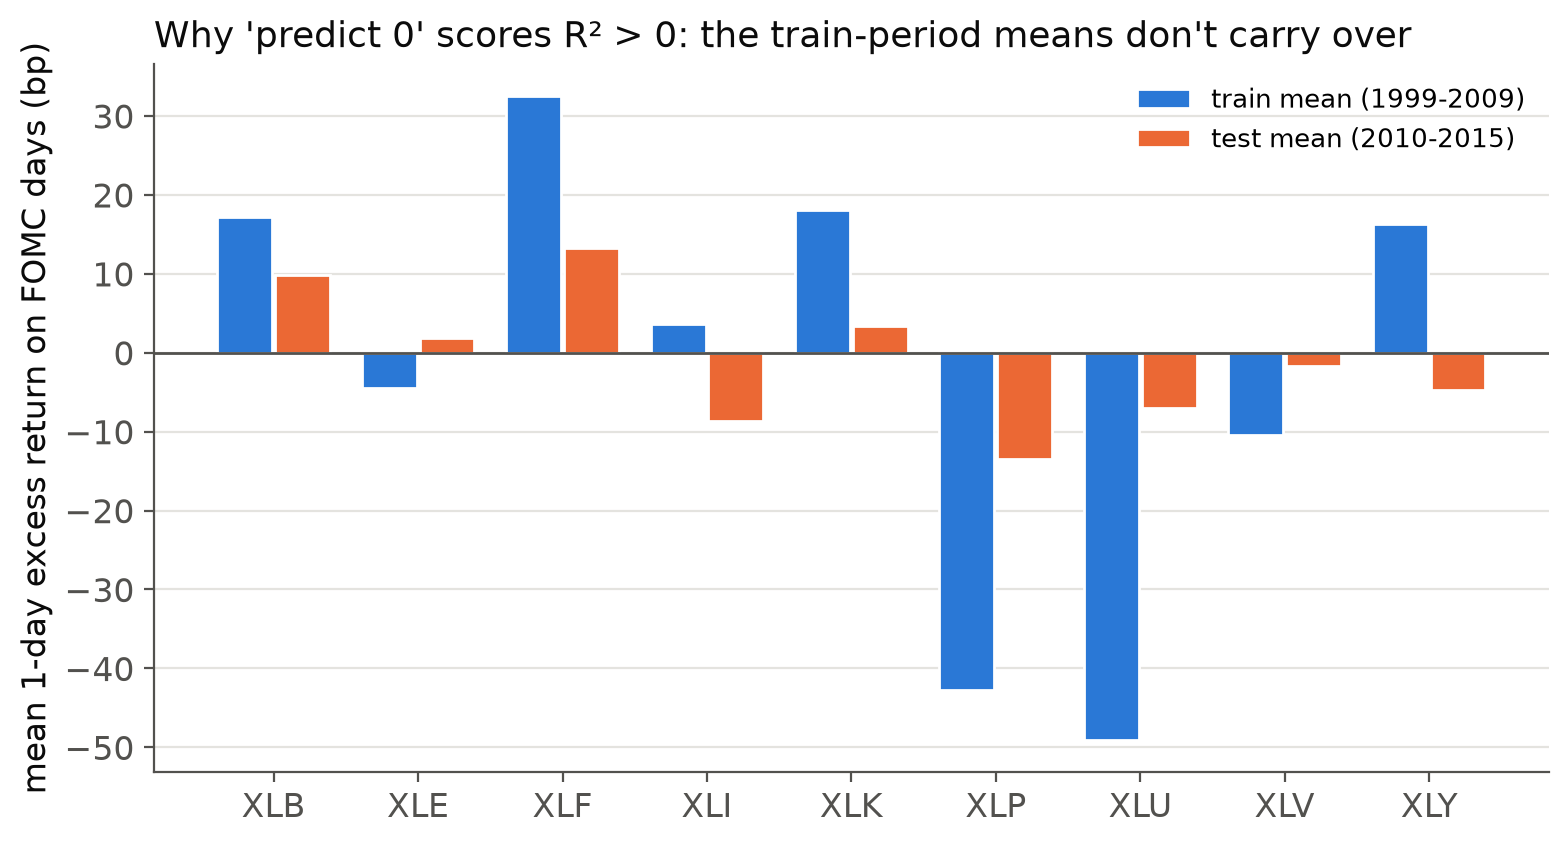
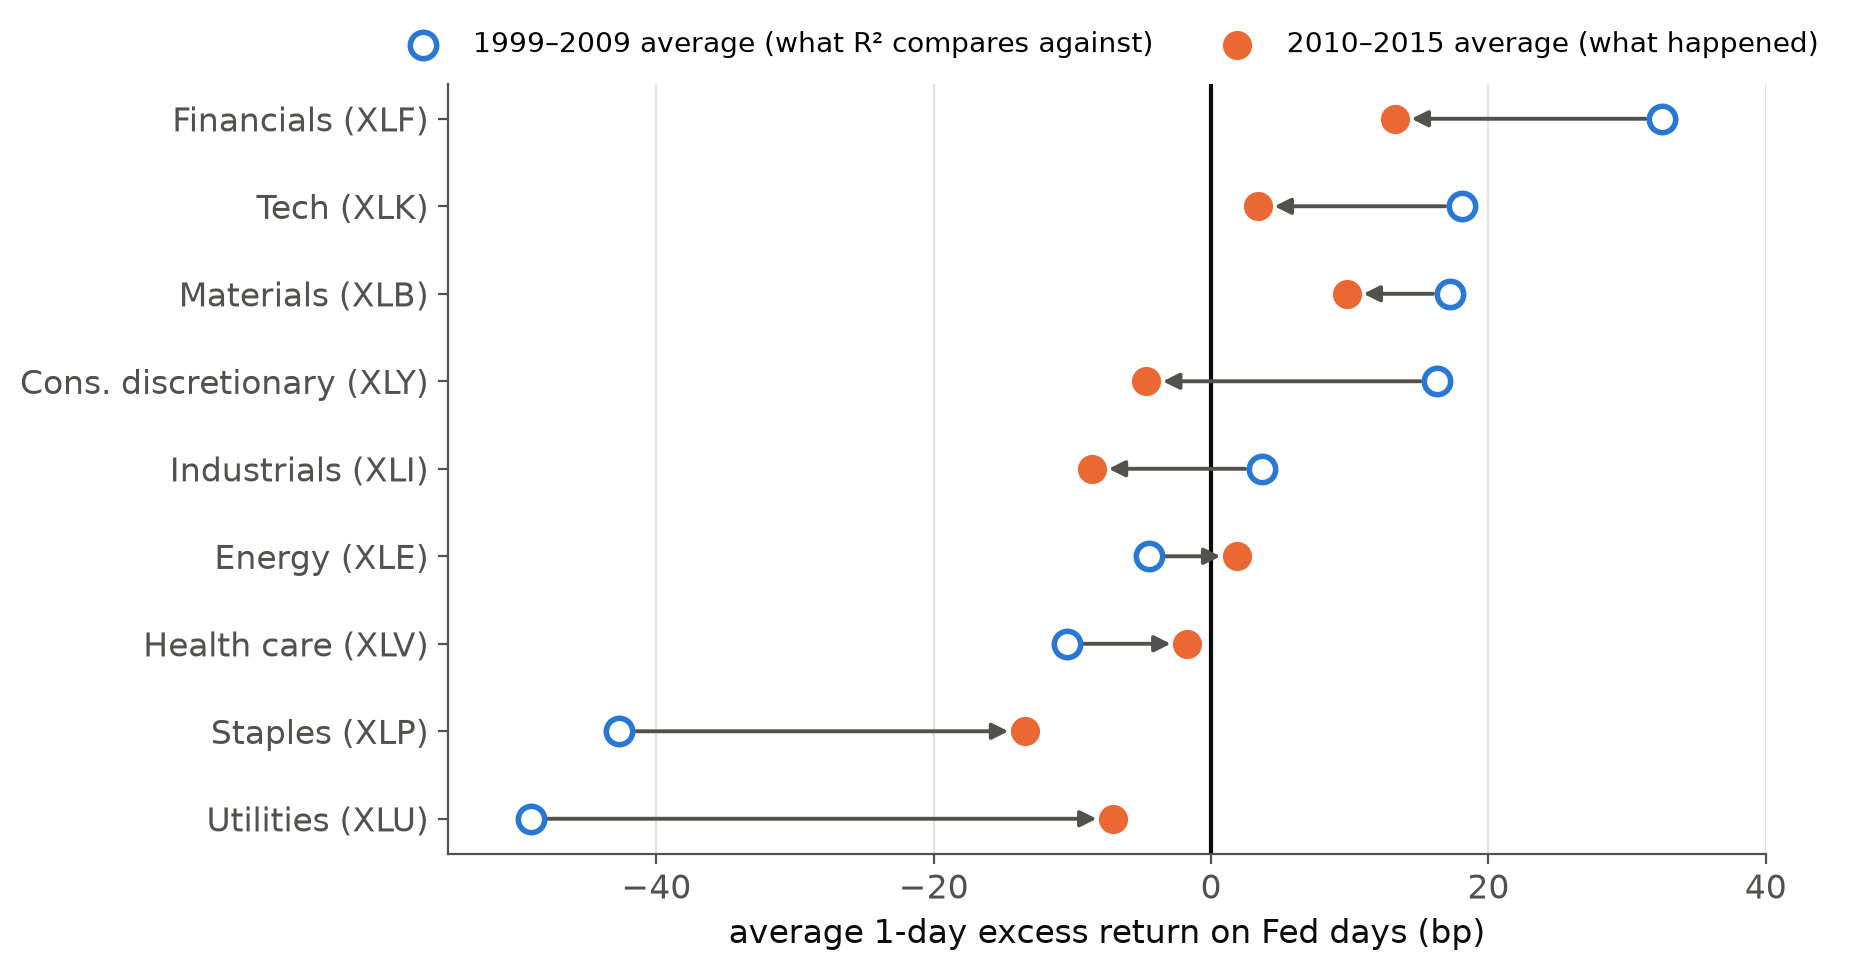
Redraw scoring-trap figure as a dumbbell of train vs test sector means

diff --git a/src/plots.py b/src/plots.py
@@ -183,19 +183,26 @@ def fig5_zero_artifact():
     p = load_panel(with_features=False)
     p["period"] = np.where(p["split"].isin(["train", "val"]), "train", np.where(p["split"] == "test", "test", None))
     m = p.dropna(subset=["period"]).groupby(["ticker", "period"])["excess_1d"].mean().unstack() * 1e4
-    fig, ax = plt.subplots(figsize=(9, 4.6))
-    x = np.arange(len(config.TICKERS))
-    ax.bar(x - 0.2, m.loc[config.TICKERS, "train"], 0.38, color="#2a78d6", label="train mean (1999-2009)",
-           edgecolor="white", linewidth=1)
-    ax.bar(x + 0.2, m.loc[config.TICKERS, "test"], 0.38, color="#eb6834", label="test mean (2010-2015)",
-           edgecolor="white", linewidth=1)
-    ax.axhline(0, color=INK2, linewidth=1)
-    ax.set_xticks(x, config.TICKERS)
-    ax.set_ylabel("mean 1-day excess return on FOMC days (bp)")
-    ax.set_title("Why 'predict 0' scores R² > 0: the train-period means don't carry over",
-                 loc="left", fontsize=13, color=INK)
-    ax.grid(axis="x", visible=False)
-    ax.legend(fontsize=9.5)
+    # Dumbbell: each sector's 1999-2009 mean (hollow) moves to its 2010-2015 mean (filled).
+    # The point of the slide is that almost every arrow heads toward 0.
+    names = {"XLB": "Materials", "XLE": "Energy", "XLF": "Financials", "XLI": "Industrials",
+             "XLK": "Tech", "XLP": "Staples", "XLU": "Utilities", "XLV": "Health care",
+             "XLY": "Cons. discretionary"}
+    m = m.loc[config.TICKERS].sort_values("train")
+    fig, ax = plt.subplots(figsize=(8.5, 5))
+    y = np.arange(len(m))
+    ax.axvline(0, color=INK, linewidth=1.5)
+    for yi, (tr, te) in zip(y, m[["train", "test"]].to_numpy()):
+        ax.annotate("", xy=(te, yi), xytext=(tr, yi),
+                    arrowprops=dict(arrowstyle="-|>", color=INK2, linewidth=1.4, shrinkA=6, shrinkB=6))
+    ax.scatter(m["train"], y, s=90, facecolor="white", edgecolor="#2a78d6", linewidth=2,
+               zorder=3, label="1999–2009 average (what R² compares against)")
+    ax.scatter(m["test"], y, s=90, color="#eb6834", zorder=3, label="2010–2015 average (what happened)")
+    ax.set_yticks(y, [f"{names[t]} ({t})" for t in m.index])
+    ax.set_xlabel("average 1-day excess return on Fed days (bp)")
+    ax.grid(axis="y", visible=False)
+    ax.legend(fontsize=10, loc="lower center", bbox_to_anchor=(0.5, 1.0), ncol=2)
+    ax.set_xlim(-55, 40)
     save(fig, "fig5_zero_artifact.png")
 
 
